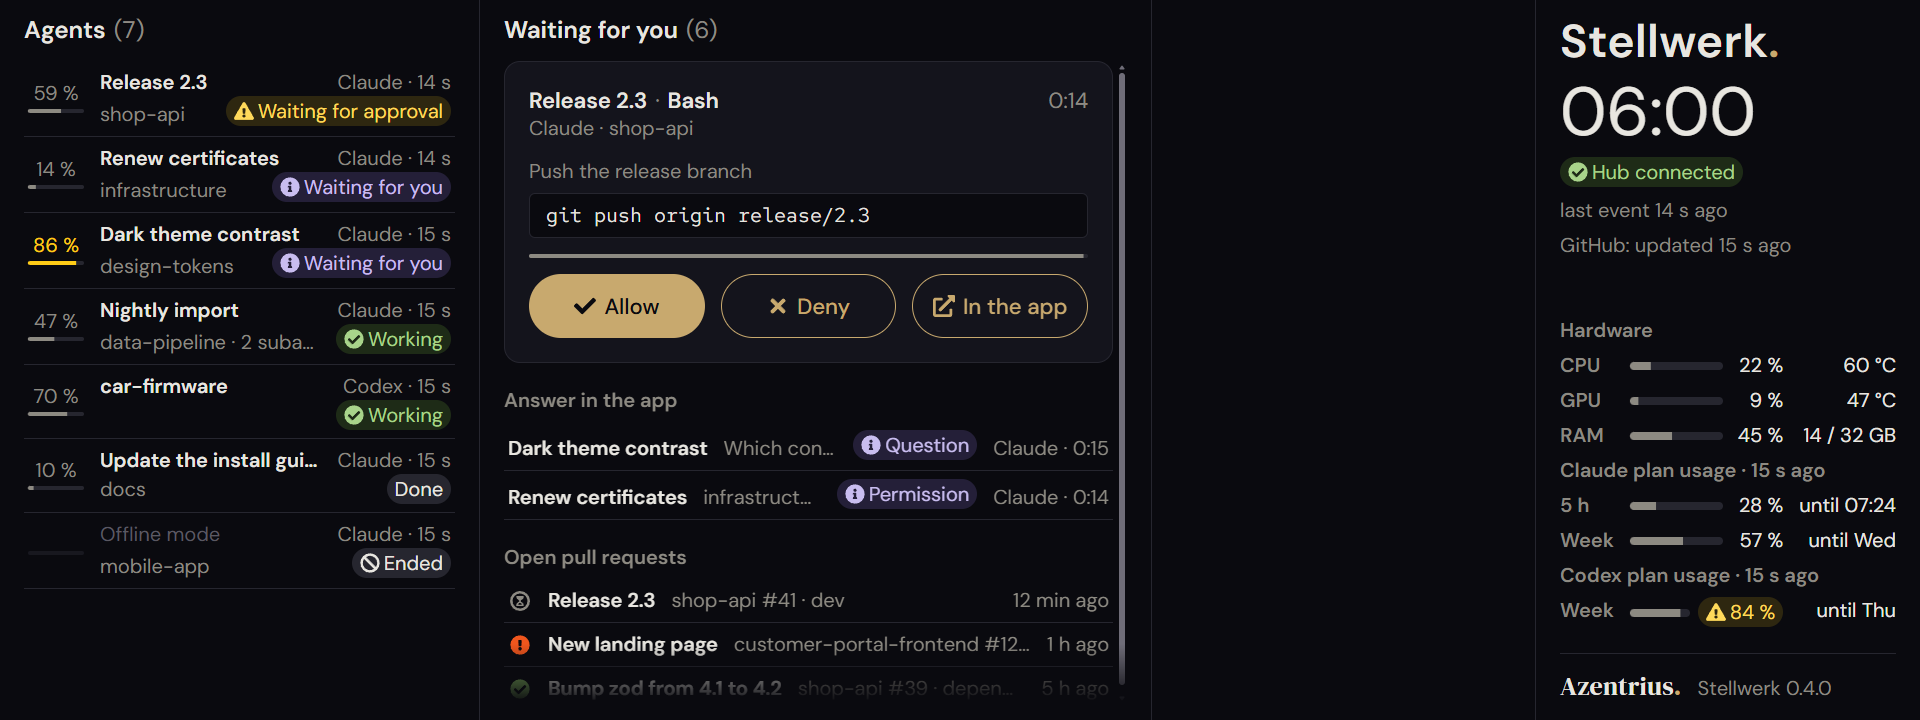
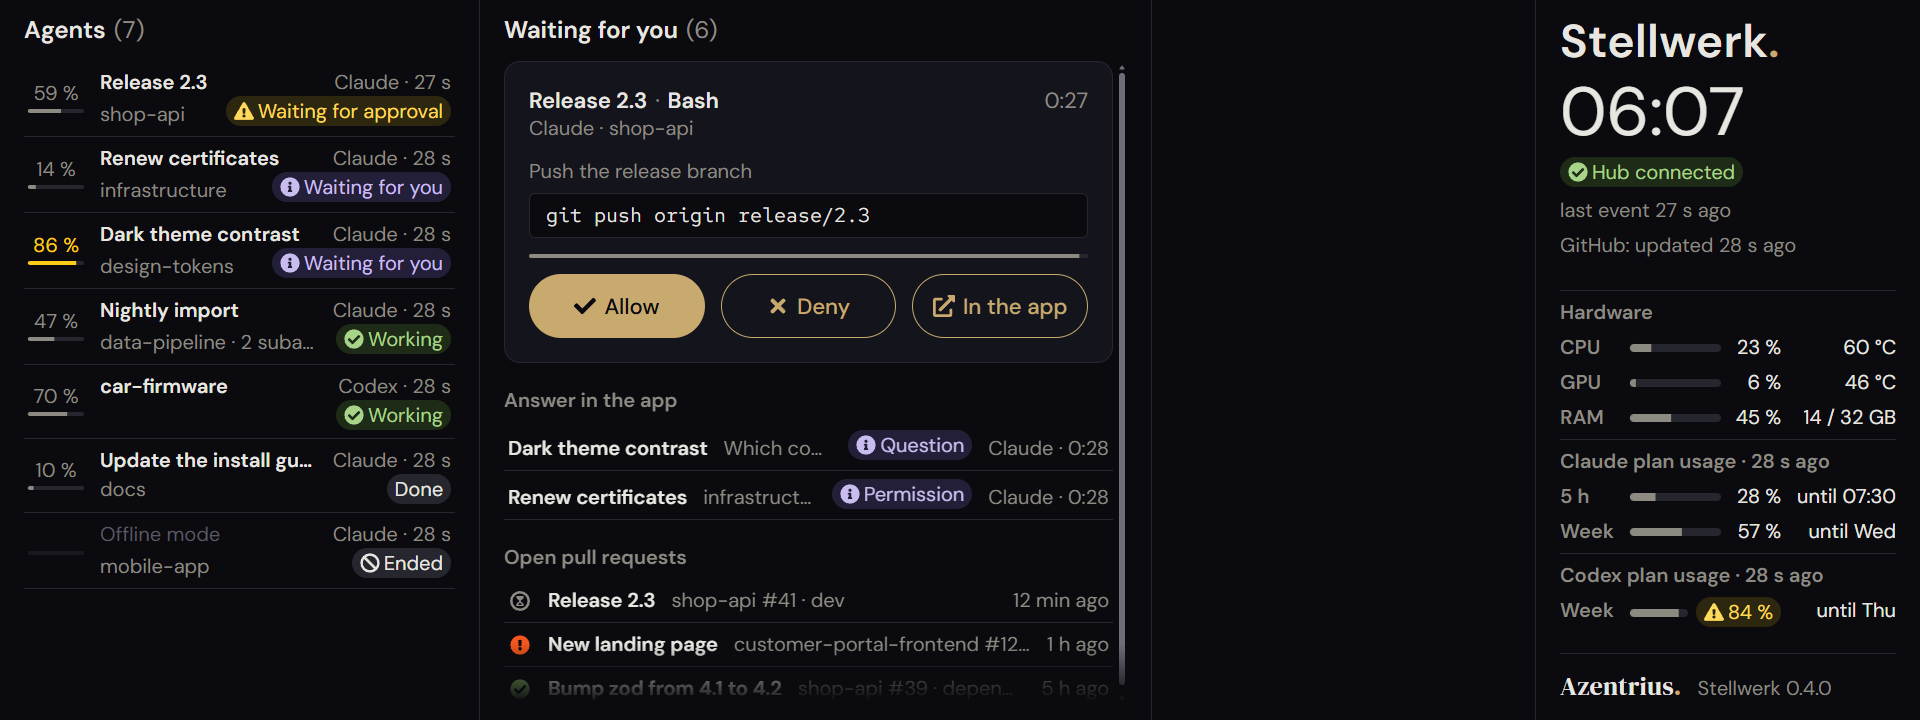
Put each gauge section under the signature's line
Hardware and each plan usage section start with the same thin line as
the signature, with a smaller gap below it, so the column still fits
with two providers.

diff --git a/ui/app.css b/ui/app.css
@@ -237,7 +237,8 @@ button { font: inherit; }
 /* Short of room (an alert above): the gauges give way and fade out at the bottom, like a full column. */
 .gauge-sections--more { mask-image: linear-gradient(to bottom, #000 calc(100% - 3rem), transparent); }
 .plans { display: contents; }
-.gauge-section { display: grid; grid-column: 1 / -1; grid-template-columns: subgrid; }
+/* Each section under the same line as the signature. */
+.gauge-section { display: grid; grid-column: 1 / -1; grid-template-columns: subgrid; padding-block-start: var(--sp-sm); border-block-start: 1px solid var(--line); }
 .gauge-section > :not(.gauges) { grid-column: 1 / -1; }
 .gauges { display: grid; grid-column: 1 / -1; grid-template-columns: subgrid; row-gap: var(--sp-sm); margin: 0; }
 .gauge { display: contents; }

diff --git a/CHANGELOG.md b/CHANGELOG.md
@@ -19,7 +19,7 @@ nearly full context turns red.
 - **Red when little is left:** the context meter in front of an agent stays grey up to 79 %, needs
   attention from 80 % and is red from 90 %; the app compacts the context at about 97 %.
 - **One grid for the gauges:** the rows of hardware and plan usage share their columns, so the bars line
-  up. When an alert above leaves too little room, the gauges fade out at the bottom instead of pushing
+  up, and each section stands under the same line as the signature. When an alert above leaves too little room, the gauges fade out at the bottom instead of pushing
   the signature off the screen.
 
 ## 0.3.0 – 2026-10-18
